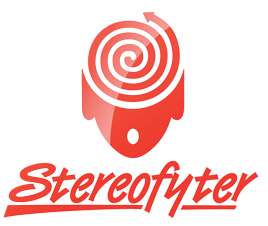
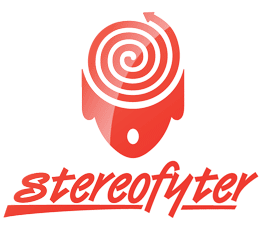
fixed a couple small text arrors, switching back to the macbook

Changed region(s): [[0.0299, 0.7124, 0.209, 0.8982]]

diff --git a/html/index.php b/html/index.php
@@ -28,32 +28,32 @@ endif; ?>
 			var flashparams = {
 				wmode:"<?=/*TODO: remove this*/(isset($_GET['wmode'])? $_GET['wmode']: 'transparent')?>"
 			};
-      swfobject.embedSWF(
-              "swf/main.swf?v<?=MIXER_APP_VERSION?>",
-              "sfapp",
-              "100%",
-              "100%",
-              "9.0.0",
-              "swf/expressInstall.swf",
-              flashvars,
-              flashparams,
-              null,
-              function(e){
-                e.success && mbinterface.addEventListenerObject(e.ref);
-              }
-            );
+			swfobject.embedSWF(
+							"swf/main.swf?v<?=MIXER_APP_VERSION?>",
+							"sfapp",
+							"100%",
+							"100%",
+							"9.0.0",
+							"swf/expressInstall.swf",
+							flashvars,
+							flashparams,
+							null,
+							function(e){
+								e.success && mbinterface.addEventListenerObject(e.ref);
+							}
+						);
 		</script>
 		<div id="app_container">
-		  <div id="sfapp_loading">
-		    Welcome to <strong>The Stereofyter</strong> - a place to meet the world, one mix at a time.<br />
-		    <img src="/images/site_loading.png" width="268" height="226" /><br />
-		    <span class="loading">loading...</span>
-		  </div>
+			<div id="sfapp_loading">
+				Welcome to <strong>The Stereofyter</strong> - a place to meet the world, one loop at a time.<br />
+				<img src="/images/site_loading.png" width="268" height="226" /><br />
+				<span class="loading">loading...</span>
+			</div>
 			<div id="sfapp">
-  		  <div class="noflash">
-  				<h1>Stereofyter requires Adobe Flash.</h1>
-  				<p>Please update your browser's Flash plugin by clicking the button below.</p>
-  				<p><a href="http://www.adobe.com/go/getflashplayer"><img src="http://www.adobe.com/images/shared/download_buttons/get_flash_player.gif" alt="Get Adobe Flash player" /></a></p>
+				<div class="noflash">
+					<h1>Stereofyter requires Adobe Flash.</h1>
+					<p>Please update your browser's Flash plugin by clicking the button below.</p>
+					<p><a href="http://www.adobe.com/go/getflashplayer"><img src="http://www.adobe.com/images/shared/download_buttons/get_flash_player.gif" alt="Get Adobe Flash player" /></a></p>
 				</div>
 			</div>
 		</div>
@@ -65,15 +65,15 @@ endif; ?>
 			<applet CODE="com/mixblendr/gui/main/Applet" ARCHIVE="mixblendr/mixblendr.jar?v<?=MIXER_ENGINE_VERSION?>" WIDTH="1" HEIGHT="1" ALT="Your browser is not configured to view the applet. Please install Jave Runtime JRE 1.5 or higher. www.java.com/getjava" id="mixblendr"><PARAM name="url" value="competition/getfile"><PARAM name="REDIRECT_URL" value="competition/competition-entries/"><PARAM name="DEFAULT_TEMPO" value="120.0"></applet>
 		</div>
 		<form id="pop_login" action="scripts/login_register.php" class="login" style="display: none;">
-		  <input type="hidden" name="action" value="login" />
+			<input type="hidden" name="action" value="login" />
 			<h2 class="login">Log In</h2>
 			<h2 class="register">Sign Up</h2>
 			<div class="login notice">
-			  New to Stereofyter? <a href="#" class="toggle-register">Sign Up</a>.
-		  </div>
+				New to Stereofyter? <a href="#" class="toggle-register">Sign Up</a>.
+			</div>
 			<div class="register notice">
-			  Already registered? <a href="#" class="toggle-login">Log In</a>.
-		  </div>
+				Already registered? <a href="#" class="toggle-login">Log In</a>.
+			</div>
 			<div class="line">
 				<span class="login">Username / </span>Email Address<br />
 				<input type="text" name="username" />
@@ -88,7 +88,7 @@ endif; ?>
 			<div class="line register">
 				Retype Password<br />
 				<input type="password" name="password2" />
-		  </div>
+			</div>
 			<div class="line">
 				<input type="submit" class="login" value="Log In" />
 				<input type="submit" class="register" value="Register" />

diff --git a/html/inc/sf/user.php b/html/inc/sf/user.php
@@ -9,6 +9,7 @@ function login_user($username, $password) {
 	$user_id = check_user_pass($username, $password);
 	if ($user_id === FALSE)
 		return FALSE;
+	die('hey');
 	$username = mysql_real_escape_string($username);
 	$result = mysql_query("SELECT id, name, email, country, musician, subscribe_updates, created FROM sf_users WHERE id='$user_id'");
 	if (!$result)
@@ -170,7 +171,6 @@ function check_user_pass($identifier, $password) {
 		return log_error('password not set', FALSE);
 	if (!check_pass_hash($password, $row['password']))
 		return log_error('incorrect login', FALSE);
-  	die($query);
 	return $row['id'];
 }
 /** make_pass_hash
